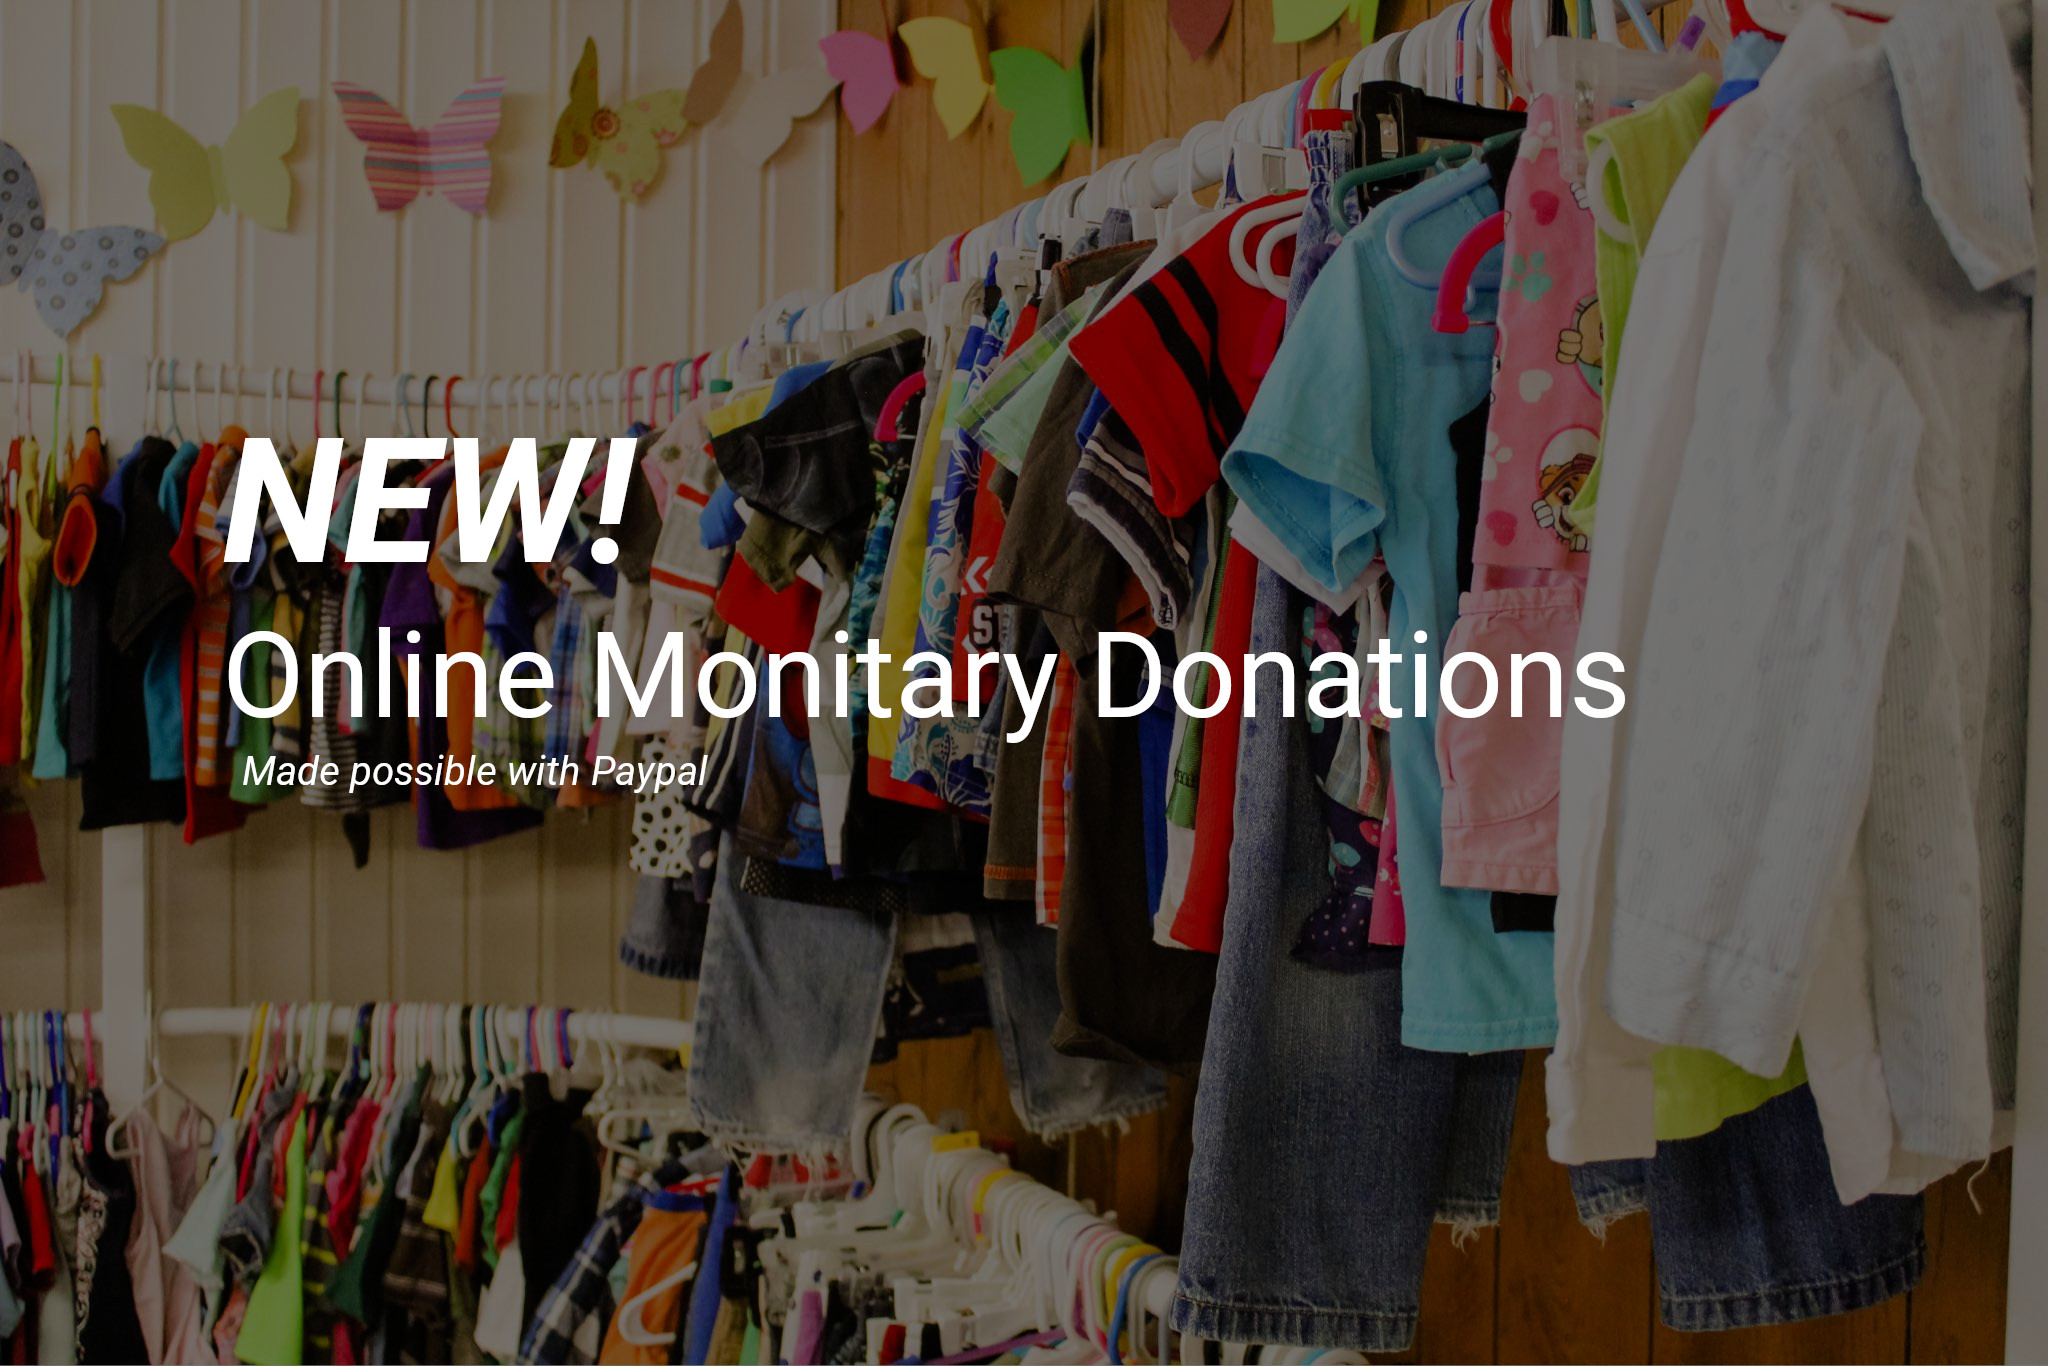
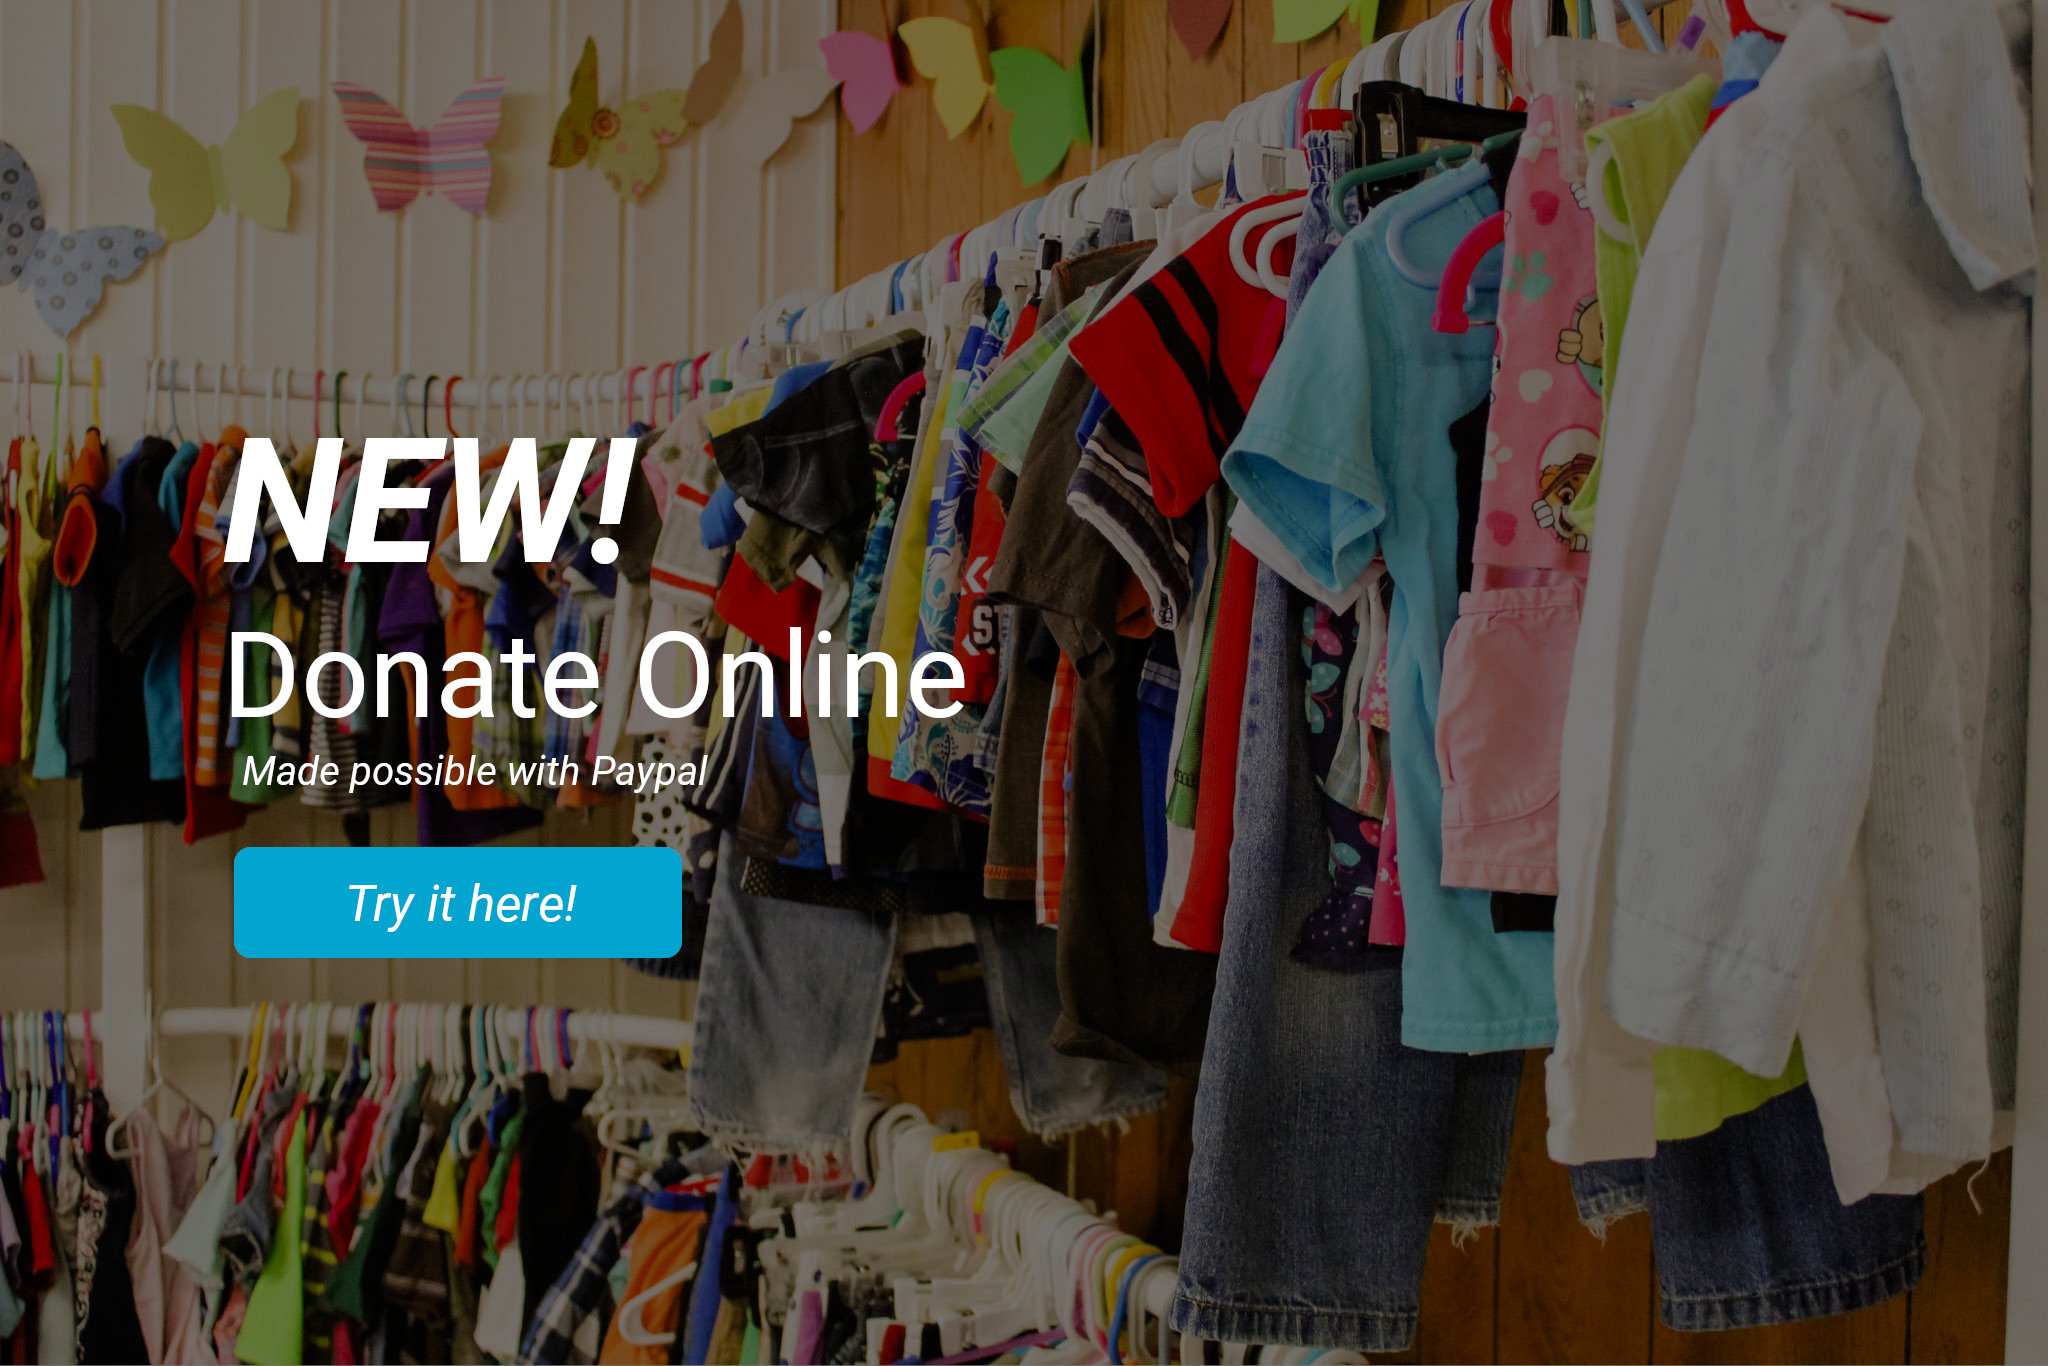
Mainly format changes to most text within app
Changes to navbar:
-added more text next to logo that disappears on smaller screens.
-adjusted the logo text's size for smaller screens.
Changes to main content:
-most paragraphs are now aligned left, rather than aligned center.

Changed region(s): [[0.0938, 0.4612, 0.8125, 0.5227], [0.0938, 0.6149, 0.3438, 0.7072]]

diff --git a/burlington-gsh-page/src/components/pageComponents/Navbar.jsx b/burlington-gsh-page/src/components/pageComponents/Navbar.jsx
@@ -22,15 +22,16 @@ const useStyles = makeStyles((theme) => ({
   },
   navbar: {
     color: "black",
-    fontSize: 'min(4vw, 25px)',
+    fontSize: 'min(5vw, 25px)',
     fontWeight: 500,
-    marginLeft: '2%',
+    marginLeft: '1%',
     display: 'inline',
     verticalAlign: 'middle'
   },
   navbarCentered: {
     display: 'flex',
-    alignItems: 'center'
+    alignItems: 'center',
+    height: 58
   },
   navbarLinks: {
     textDecoration: "none",
@@ -85,7 +86,7 @@ const useStyles = makeStyles((theme) => ({
     }
   },
   menuLinkSpacer: {
-    marginRight: "8vw",
+    marginRight: 20,
     marginTop: "22px",
     '&::after': {
       width: '100%',
@@ -104,9 +105,9 @@ const useStyles = makeStyles((theme) => ({
   },
   navbarContact: {
     fontWeight: 400,
-    fontSize: 'min(2.3vw, 12px)',
+    fontSize: 'min(2.4vw, 12px)',
     color: 'white',
-    marginRight: '5%',
+    marginRight: 'min(2%, 20px)',
     display: 'inline',
     height: '100%',
     verticalAlign: 'middle'
@@ -125,10 +126,10 @@ const useStyles = makeStyles((theme) => ({
     color: "black",
     fontSize: 'min(3vw, 18px)',
     fontWeight: 300,
-    marginLeft: 20,
+    marginLeft: 'min(2%, 15px)',
     display: 'inline',
     verticalAlign: 'middle',
-    marginTop: 'min(1%, 4px)'
+    marginTop: '5px'
   }
 }));
 
@@ -164,18 +165,20 @@ function Navbar() {
             <a className={classes.navbarContactLinks} href = "mailto: godsstorehousebks@gmail.com">godsstorehousebks@gmail.com</a>
           </Typography>
         </Grid>
-            <Grid item className={classes.navbarCentered} xs={11} sm={11} md={11} lg={11} xl={11} align="left">
+            <Grid item className={classes.navbarCentered} xs={10} sm={10} md={10} lg={10} xl={10} align="left">
               <a href='/' className={classes.homeLink}>
                 <img className={classes.navbarLogo} alt="" border="0" src="/logo.png" width="50" height="50" />
               </a>
               <Typography className={classes.navbar} variant="h5" component="h2">
                 <a href='/' className={classes.homeLink}> God&#39;s Storehouse </a>
               </Typography>
-              <Typography className={classes.navbarSubheader} variant="h5" component="h2">
-                a ministry of CCEMA
-              </Typography>
+              <Hidden xsDown>
+                <Typography className={classes.navbarSubheader} variant="h5" component="h2">
+                  a ministry of CCEMA
+                </Typography>
+              </Hidden>
             </Grid>
-            <Grid item className={classes.navbarContainer} xs={1} sm={1} md={1} lg={1} xl={1} align="center">
+            <Grid item className={classes.navbarContainer} xs={2} sm={2} md={2} lg={2} xl={2} align="right">
               <div className={classes.iconsContainer}>
                   <Hamburger className={classes.hamburger} toggled={isOpen, menu}  toggle={setOpen, setMenu} size={25} color="#000000" label="Show menu" marginTop="20px" direction="right" />
               </div>

diff --git a/burlington-gsh-page/src/components/pageComponents/DemoCarousel.jsx b/burlington-gsh-page/src/components/pageComponents/DemoCarousel.jsx
@@ -6,7 +6,10 @@ import { Carousel } from 'react-responsive-carousel';
 
 // styles for Footer.js
 const useStyles = makeStyles((theme) => ({
-  
+  imageLink: {
+    height: 'inherit',
+    width: 'inherit'
+  }
 }));
 
 function DemoCarousel() {
@@ -14,12 +17,14 @@ function DemoCarousel() {
   const classes = useStyles();
 
   return (
-    <Carousel interval={5000} transitionTime={1000} selectedItem={0} infiniteLoop='true' useKeyboardArrows='true' stopOnHover='true' dynamicHeight='false' emulateTouch='true' autoPlay='true'>
+    <Carousel interval={5000} transitionTime={500} selectedItem={0} infiniteLoop='true' useKeyboardArrows='true' stopOnHover='true' dynamicHeight='false' emulateTouch='true' autoPlay='true'>
         <div>
             <img src="assets/1.jpg" alt='' />
         </div>
         <div>
-            <img src="assets/2.jpg" alt='' />
+            <a className={classes.imageLink} target="blank" href="https://www.paypal.com/donate/?token=V9OwFrDwpLWLWYktYeXcDFUn57gOkRpLmon4hYRx3JSMNSo6ak5tvhvsmiVEs9FmI0ulBDxN1TYQib6I">
+              <img src="assets/2.jpg" alt='' />
+            </a>
         </div>
         <div>
             <img src="assets/3.jpg" alt='' />

diff --git a/burlington-gsh-page/src/components/Pages/Main.jsx b/burlington-gsh-page/src/components/Pages/Main.jsx
@@ -58,7 +58,8 @@ const useStyles = makeStyles((theme) => ({
     textAlign: "center"
   },
   icons: {
-    width: 100
+    width: 100,
+    height: 100
   },
   iconsInline: {
     width: 50,
@@ -132,7 +133,7 @@ const useStyles = makeStyles((theme) => ({
   spacerTextBody: {
     fontWeight: 400,
     fontSize: 'min(4vw, 20px)',
-    textAlign: 'center',
+    textAlign: 'left',
     color: 'white',
     width: '95%',
     padding: 10,
@@ -204,17 +205,21 @@ const useStyles = makeStyles((theme) => ({
     padding: 5
   },
   infoBody: {
-    fontWeight: 300,
+    fontWeight: 400,
     fontSize: 'min(4vw, 20px)',
-    textAlign: 'center',
+    textAlign: 'left',
     color: 'black',
-    padding: 25 
+    width: '95%',
+    padding: 10,
+    maxWidth: 800,
+    marginLeft: 'auto',
+    marginRight: 'auto'
   },
   carousel: {
     backgroundColor: "rgba(255, 255, 255, 0.8)"
   },
   navbarSpace: {
-    height: 100
+    height: 85
   }
 }));
 

diff --git a/burlington-gsh-page/public/index.html b/burlington-gsh-page/public/index.html
@@ -9,7 +9,7 @@
     <meta name="theme-color" content="#dddddd" />
     <meta
       name="description"
-      content="Burlington, KS - God's Store House offers free food, clothing, and household goods to anyone in Coffey County with a need."
+      content="Burlington, KS - God's Storehouse offers free food, clothing, and household goods to anyone in Coffey County with a need."
     />
     <link rel="apple-touch-icon" href="%PUBLIC_URL%/favicon.png" />
     <!--
@@ -26,7 +26,7 @@
       work correctly both with client-side routing and a non-root public URL.
       Learn how to configure a non-root public URL by running `npm run build`.
     -->
-    <title>God's Store House - Burlington, KS</title>
+    <title>God's Storehouse - Burlington, KS</title>
     <script type="text/babel" src="/burlington-gsh-page/src/App.js"></script>
   </head>
   <body>

diff --git a/burlington-gsh-page/src/components/Pages/Resources.jsx b/burlington-gsh-page/src/components/Pages/Resources.jsx
@@ -94,7 +94,7 @@ function Resources() {
               </Grid>
               <Grid item className={classes.resourcesContainer} xs={12} sm={12} md={6} lg={6} xl={3}>
                 <Typography className={classes.resourcesTitle} variant="h4" component="h2" gutterBottom>
-                  Harvester&#39;s Acceptance Form
+                  Harvester&#39;s Proxy Acceptance Form
                 </Typography>
                 <img className={classes.resources} alt="" border="0" src="/Harvester's Info 2.jpg" />
               </Grid>
